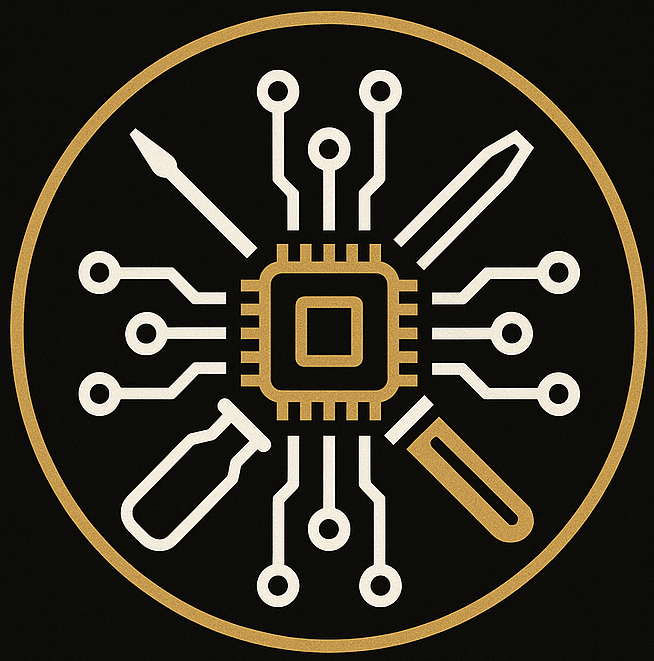
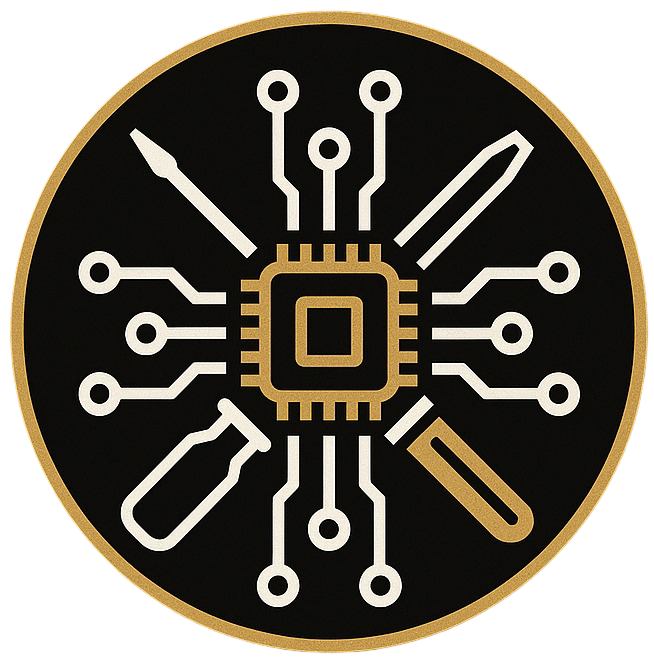
Animación modificada de sección Hero

diff --git a/kiss.fix_landing/src/components/HeroSection.jsx b/kiss.fix_landing/src/components/HeroSection.jsx
@@ -1,14 +1,17 @@
-import logo from '../assets/kiss.fix_logo.png';
+import logo from '../assets/kiss.fix_variant.png';
 import {motion} from 'framer-motion';
 
 const HeroSection = () => {
     return (
         <section id="hero" className = "relative min-h-screen flex flex-col justify-center items-center text-center px-4 bg-black overflow-hidden">
             {/* Imagen de fondo tipo marca de agua */}
-            <img
+            <motion.img
                 src={logo}
                 alt="Kiss Fix Logo"
-                className="absolute inset-0 w-full h-full object-contain opacity-12 blur-sm pointer-events-none scale-125"
+                className="absolute inset-0 w-full h-full object-contain pointer-events-none"
+                initial={{scale: 1.2, filter: "blur(0px)"}}
+                animate={{scale: 1, filter: "blur(4px)"}}
+                transition={{duration: 3, ease: "easeInOut", repeat: Infinity, repeatType: "reverse"}}
             />
             {/* Capa oscura para mejor legibilidad */}
             <div className="absolute inset-0 bg-black opacity-60"/>
